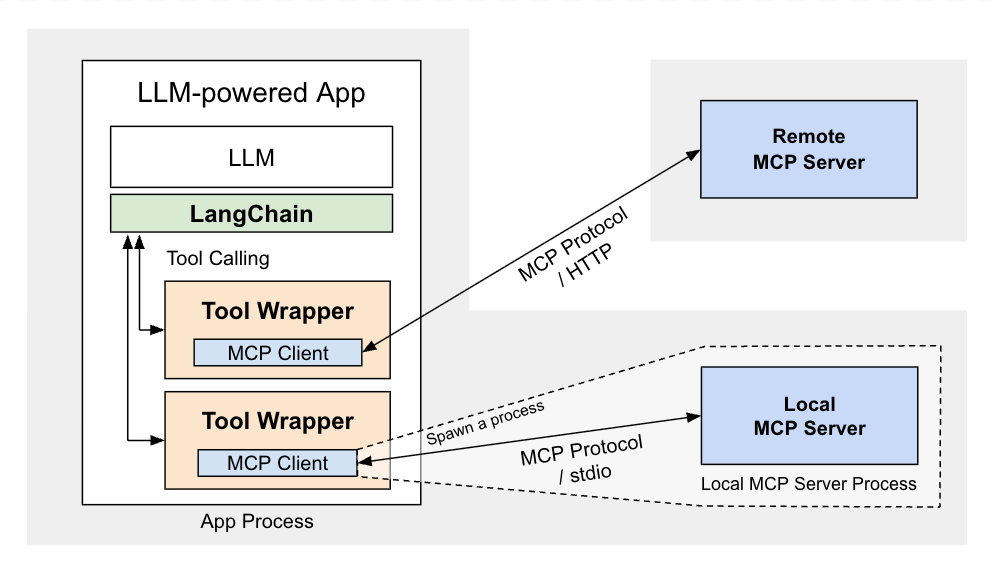
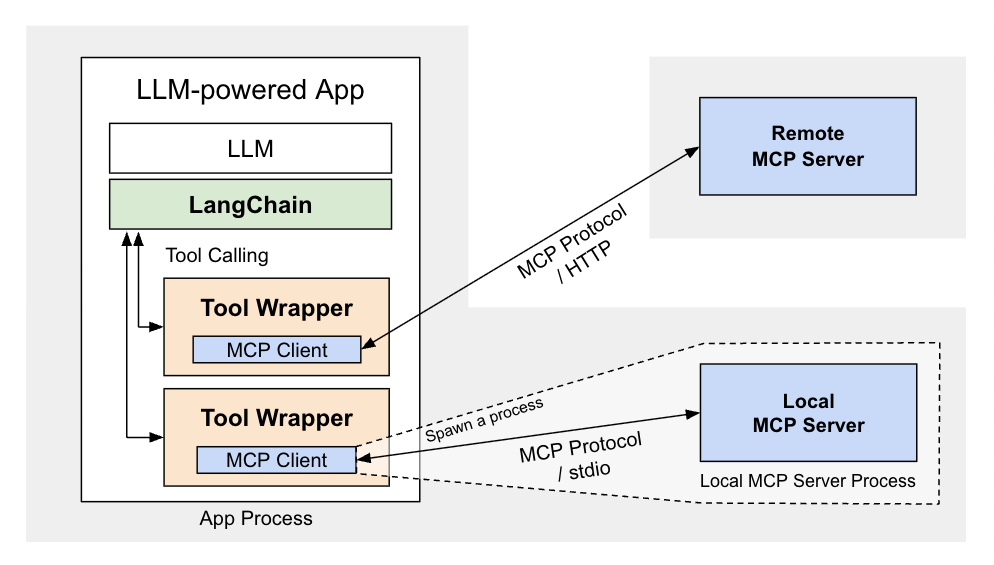
Update to ver 0.2.12

diff --git a/README.md b/README.md
@@ -1,10 +1,10 @@
-# MCP to LangChain Tools Conversion Library / Python [![License: MIT](https://img.shields.io/badge/License-MIT-blue.svg)](https://github.com/hideya/langchain-mcp-tools-py/blob/main/LICENSE) [![pypi version](https://img.shields.io/pypi/v/langchain-mcp-tools.svg)](https://pypi.org/project/langchain-mcp-tools/) [![network dependents](https://dependents.info/hideya/langchain-mcp-tools-py/badge)](https://dependents.info/hideya/langchain-mcp-tools-py)
+# MCP to LangChain Tools Conversion Library / Python [![License: MIT](https://img.shields.io/badge/License-MIT-blue.svg)](https://github.com/hideya/langchain-mcp-tools-py/blob/main/LICENSE) [![pypi version](https://img.shields.io/pypi/v/langchain-mcp-tools.svg)](https://pypi.org/project/langchain-mcp-tools/)
 
 A simple, lightweight library to use 
 [Model Context Protocol (MCP)](https://modelcontextprotocol.io/)
 server tools from LangChain.
 
-<img style="width:450px;" alt="langchain-mcp-tools-diagram" src="https://raw.githubusercontent.com/hideya/langchain-mcp-tools-py/refs/heads/main/docs/images/langchain-mcp-tools-diagram.png" />
+<img width="500px" alt="langchain-mcp-tools-diagram" src="https://raw.githubusercontent.com/hideya/langchain-mcp-tools-py/refs/heads/main/docs/images/langchain-mcp-tools-diagram.png" />
 
 Its simplicity and extra features for local MCP servers can make it useful as a basis for your own customizations.
 However, it only supports text results of tool calls and does not support MCP features other than tools.

diff --git a/CHANGELOG.md b/CHANGELOG.md
@@ -5,6 +5,12 @@ All notable changes to this project will be documented in this file.
 The format is based on [Keep a Changelog](http://keepachangelog.com/)
 and this project adheres to [Semantic Versioning](http://semver.org/).
 
+## [0.2.12] - 2025-08-06
+
+### Fixed
+- Fix issues when showing README.md on PyPI
+
+
 ## [0.2.11] - 2025-08-06
 
 ### Changed
